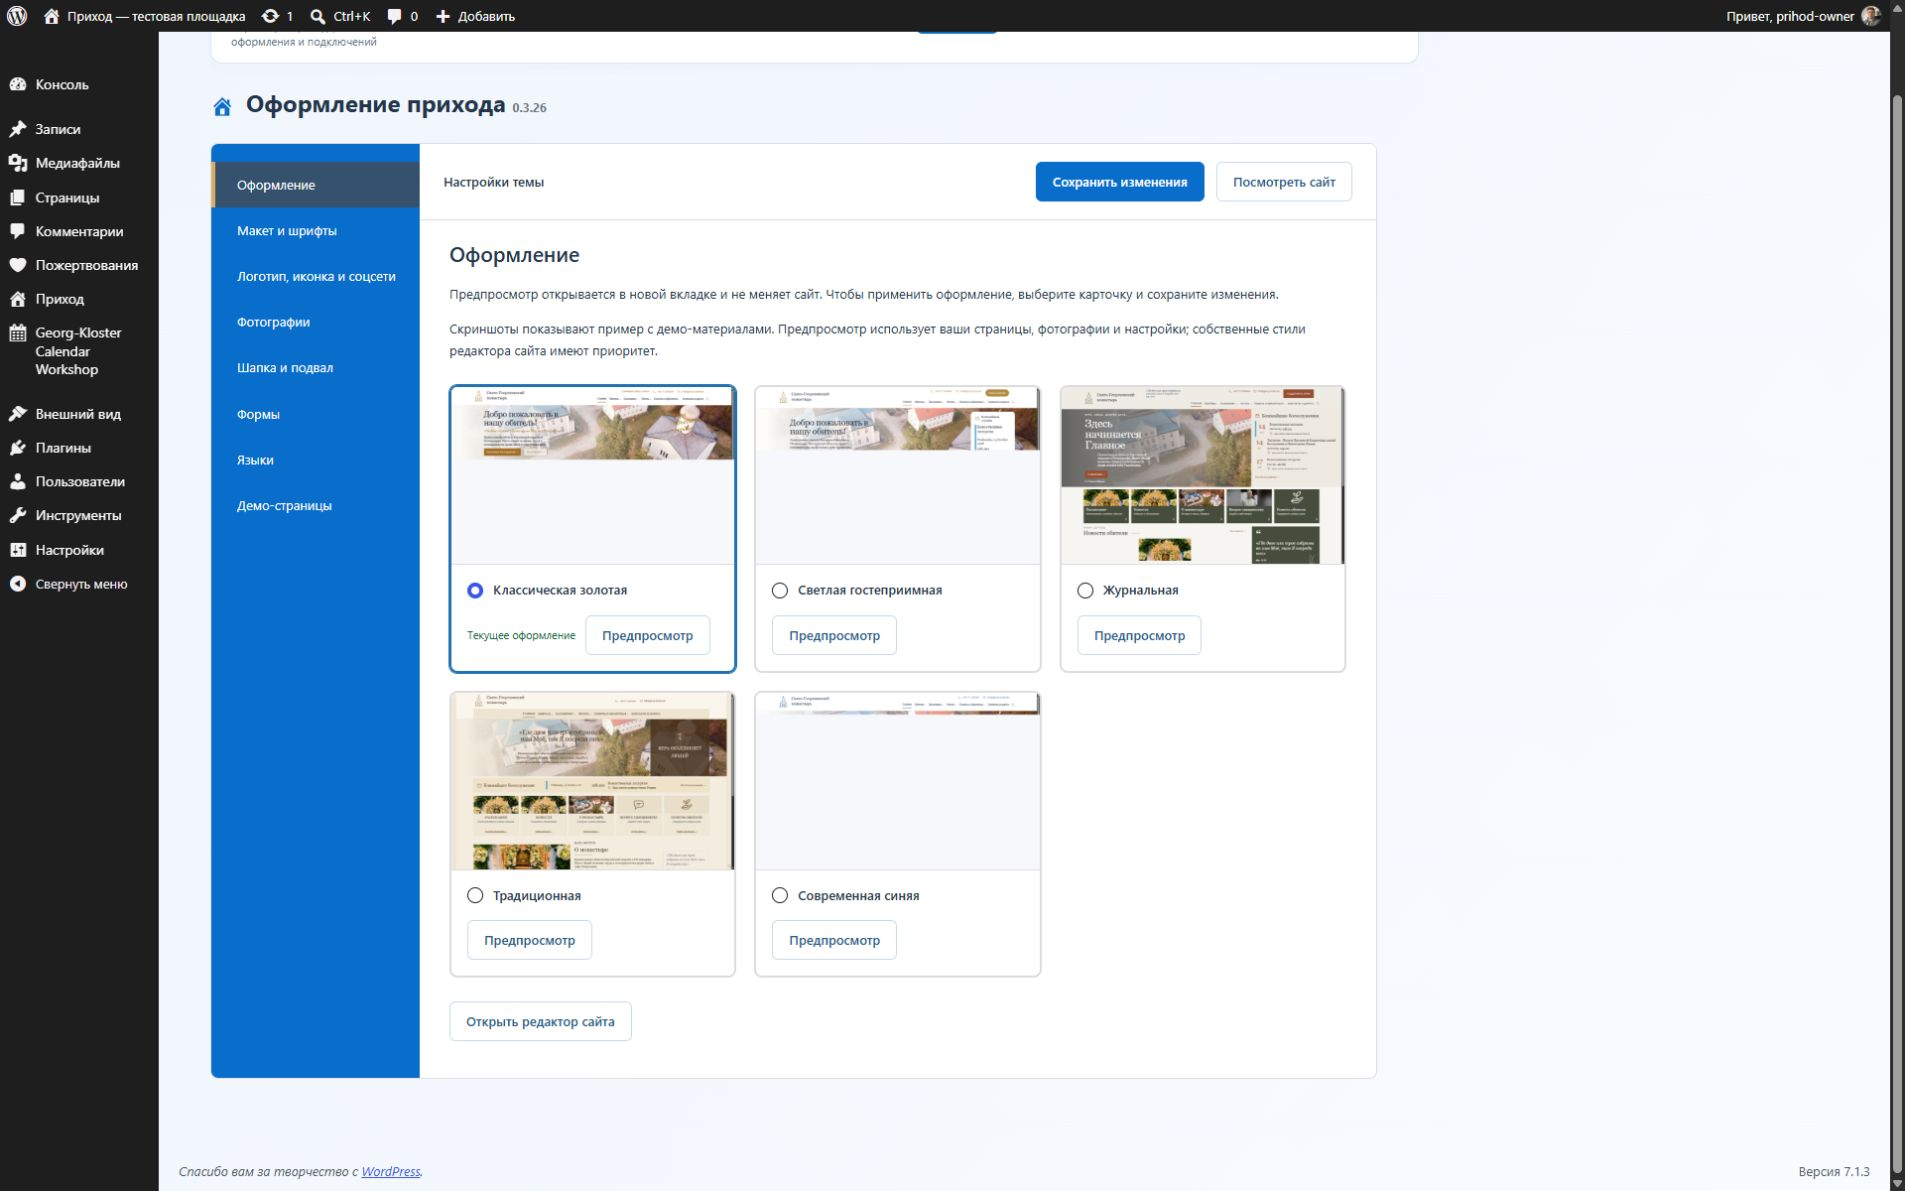
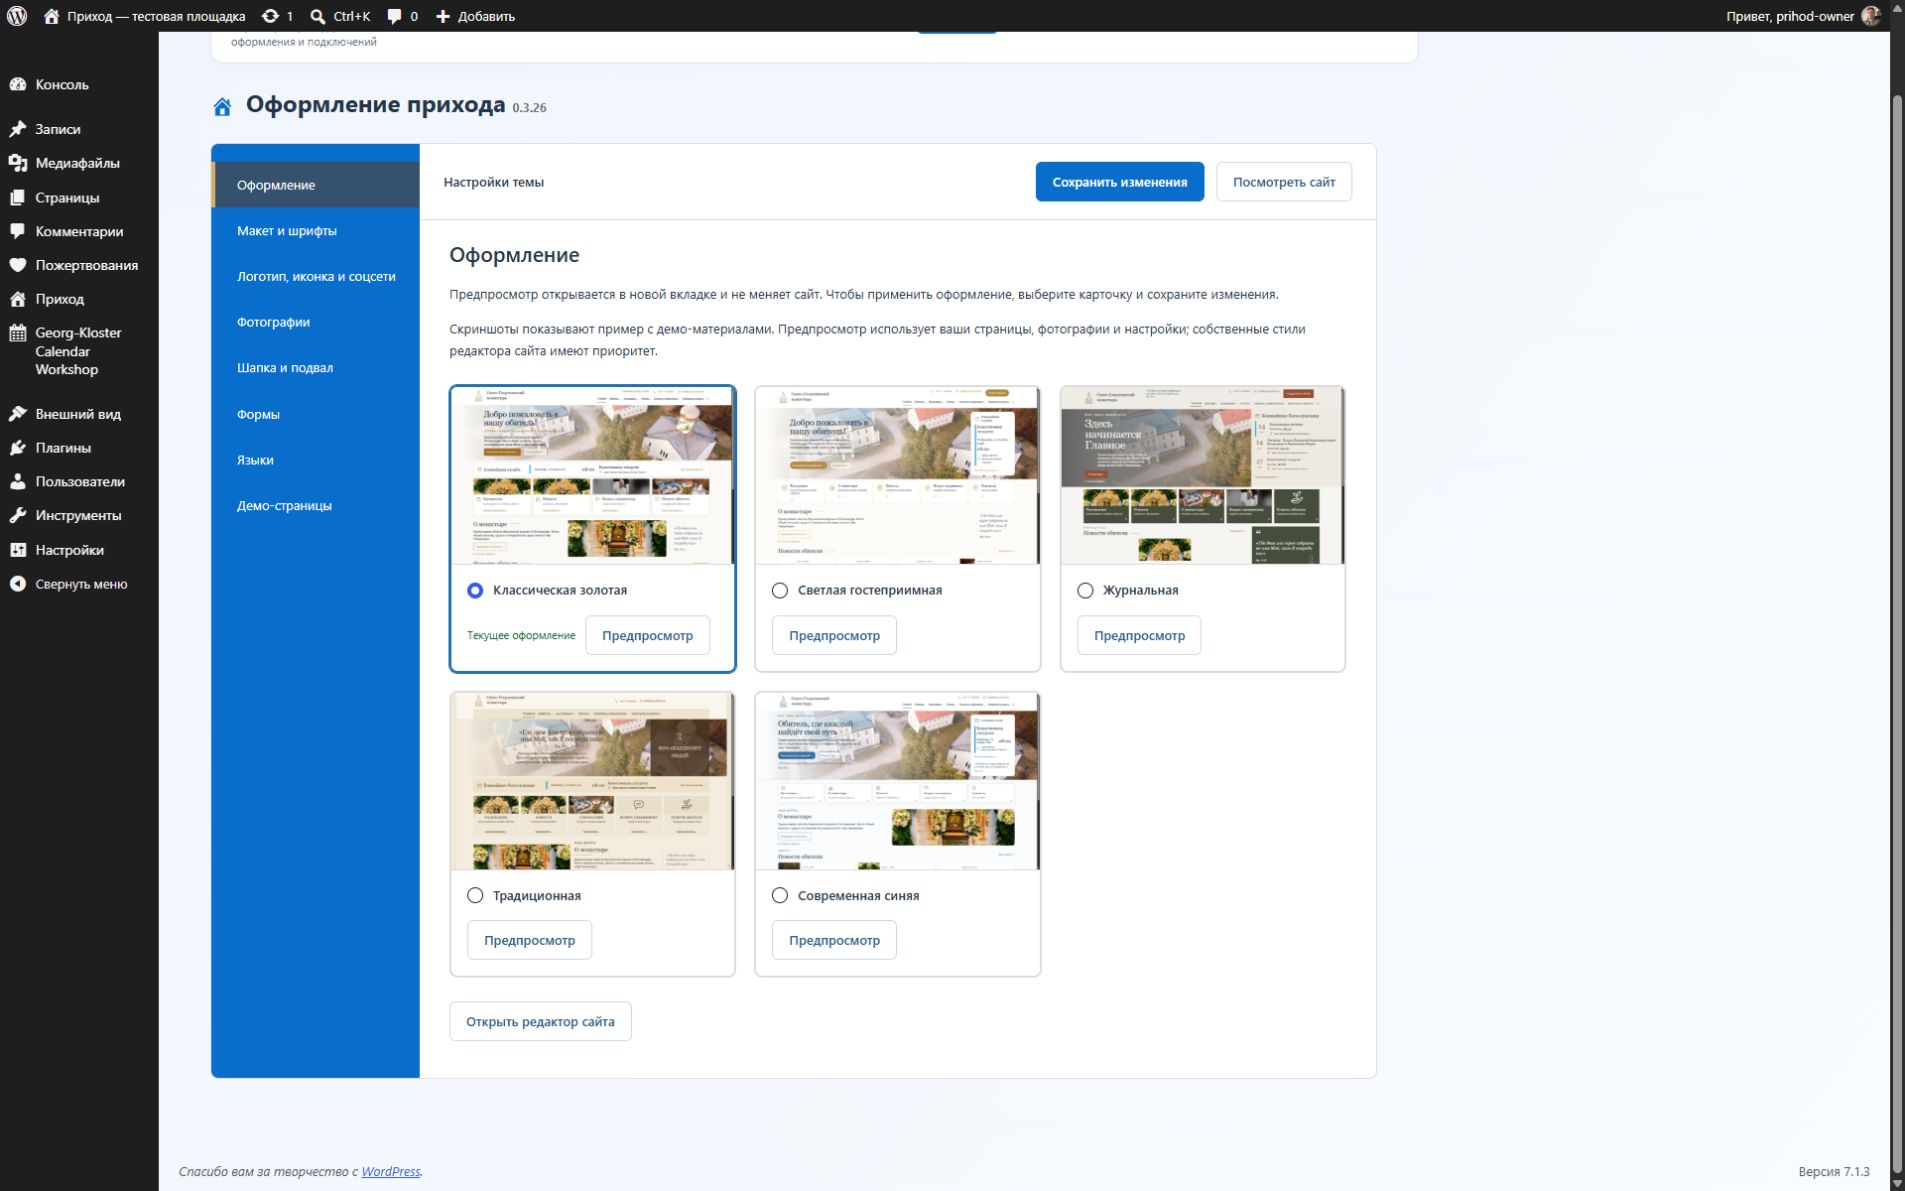
Verify fully loaded scheme screenshots

diff --git a/docs/design-reference/verification-2026-10-13/scheme-cards-0326/README.md b/docs/design-reference/verification-2026-10-13/scheme-cards-0326/README.md
@@ -25,3 +25,19 @@ prihod.georg-kloster.ru. 93серверные проверки WP7.1.3/PHP8.5.11
[2 lines of base64/hex data omitted]
 Core остаётсяrc.15, Telegram0.1.3, сторонние плагины и сервер не обновлялись.
+
+
+## Повторная визуальная проверка загрузки
+
+Ранее live-settings-desktop был снят слишком рано: JPEG уже сообщил naturalWidth,
+но часть строк ещё загружалась. Это создало видимость пустых исходных карточек.
+Проверены сами classic/hospitality/blue JPEG: hero и следующие блоки на месте.
+Все пять файлов из ZIP0.3.26 побайтно совпали с проверенными исходниками.
+Изображения1425×891, object-fit:contain, box285×179: CSS не обрезает их.
+
+Снимки live desktop1920 и full-page mobile390 заменены после проверки complete=true
+и naturalWidth1425/naturalHeight891 всех5изображений. На обоих снимках все карточки
+заполнены; overflow=false. Состояния DOM и геометрия: loaded-images.json.
+Перед дальнейшей визуальной приёмкой недостаточно проверять только naturalWidth:
+требуется complete и непосредственный осмотр результата. Не менялись код, ZIP,
+материалы/настройки пользователя или сервер. Повторное обновление не требуется.

diff --git a/PROJECT_STATUS.md b/PROJECT_STATUS.md
@@ -23,8 +23,14 @@ theme-alone/connectors-alone,2496translations,PHP syntax/diff-check прошли
 профиля, темы, Telegram, модулей, site_icon/theme_mods совпал до/после:
 c4657c462dd30cb068f8de523e61530ffd0a5fcbac57ab1518b67637daa5b837.
 Core и сторонние плагины, изображения/материалы владельца и серверные настройки не менялись.
+Повторная визуальная приёмка: прежний live screenshot был снят до полной загрузки
+трёх JPEG (naturalWidth уже задан, но изображение ещё частичное). Исходные и ZIP
+изображения полные и совпадают; CSS не обрезает их. После complete=true для всех5
+пересняты live desktop1920 и full-page mobile390: все карточки заполнены, overflow нет.
+Исправлены только снимки/протокол приёмки; новая тема/установка не требуется.
+Последний связанный commit:6747bcf. Текущий блок: Verify fully loaded scheme screenshots.
 Implementation commit:dc18a73, Add scheme screenshots and safe previews.
-Текущий блок приёмки: Record verified theme26 deployment.
+Приёмка установки: Record verified theme26 deployment (6747bcf).
 
 Core rc.16 подготовлен: Telegram Reply — отдельная запись/письмо на каждый ответ,
 включая после answered; duplicate webhook не загружает файл и не отправляет повтор.
